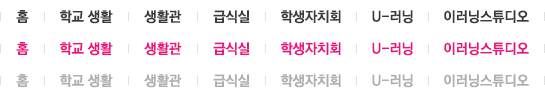
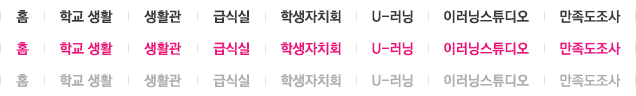
dauth 버그 수정, 만족도 조사 메뉴 추가

diff --git a/layouts/default/stylesheet.css b/layouts/default/stylesheet.css
@@ -90,6 +90,13 @@ body{
 #header #gnb ul li.menu-els:hover { background-position:-430px -32px; width:116px }
 #header #gnb ul li.menu-els-disabled { background-position:-430px -64px; width:116px }
 
+#header #gnb ul li.menu-survey { background-position:-546px 0px; width:94px }
+#header #gnb ul li.menu-survey-selected,
+#header #gnb ul li.menu-survey:hover { background-position:-546px -32px; width:94px }
+#header #gnb ul li.menu-survey-disabled { background-position:-546px -64px; width:94px }
+
+
+
 #wrap {
 	width: 1000px;
 	margin: 30px auto 20px auto;
